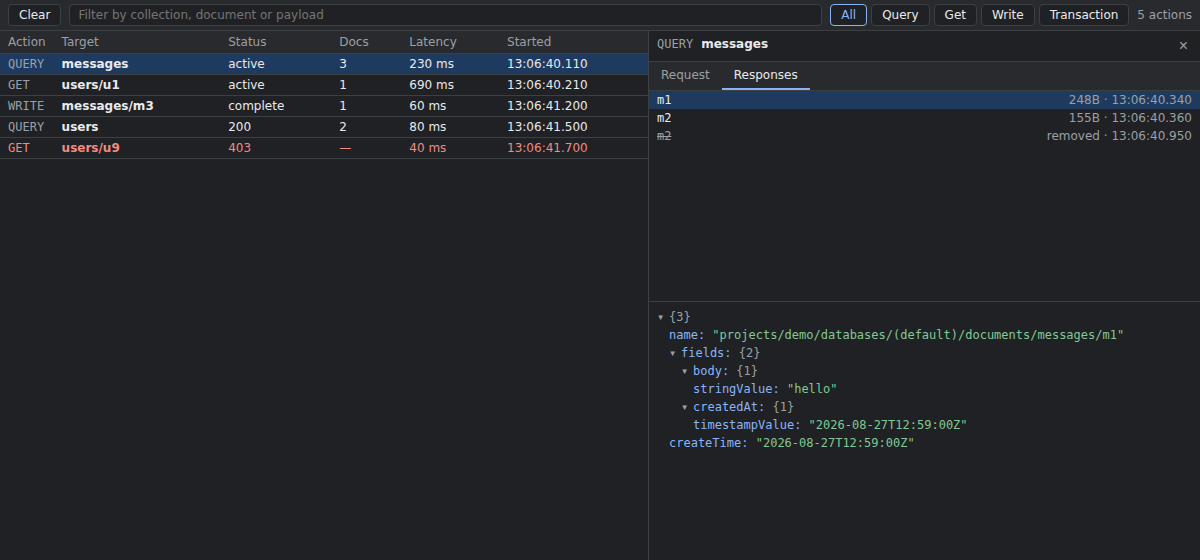
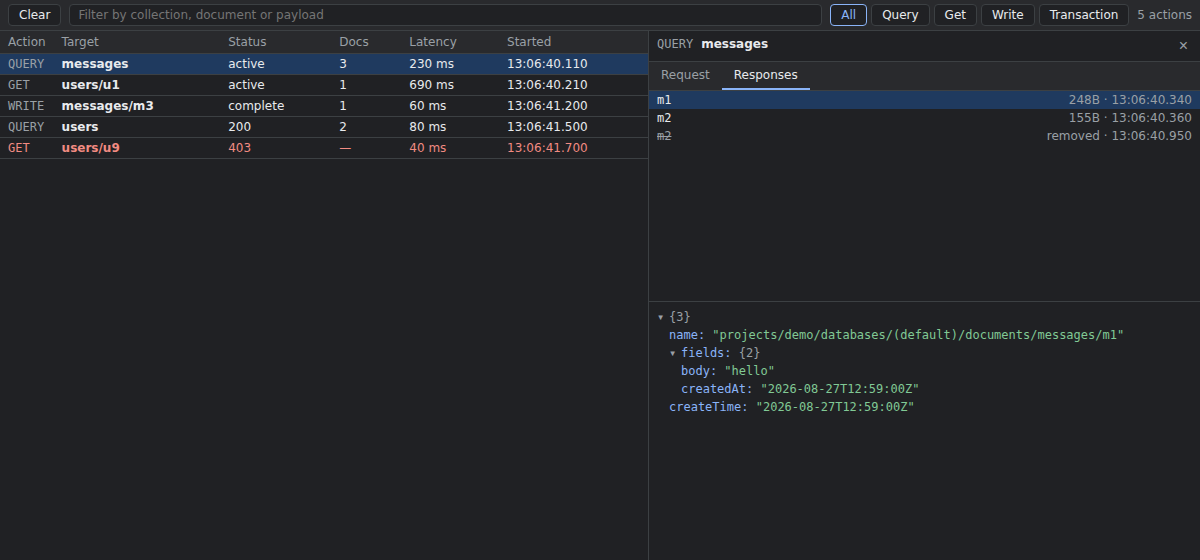
feat: show documents as the app sees them (#9)

Changed region(s): [[0.555, 0.6375, 0.8017, 0.8196]]

diff --git a/tests/unit/proto.test.ts b/tests/unit/proto.test.ts
@@ -1,0 +1,102 @@
+import { describe, expect, it } from "vitest";
+
+import {
+  decodeDocument,
+  decodeValue,
+  relativePath,
+} from "../../src/shared/proto";
+
+describe("decodeValue", () => {
+  it("unwraps the scalars", () => {
+    expect(decodeValue({ stringValue: "hi" })).toBe("hi");
+    expect(decodeValue({ booleanValue: false })).toBe(false);
+    expect(decodeValue({ doubleValue: 1.5 })).toBe(1.5);
+    expect(decodeValue({ nullValue: null })).toBeNull();
+    expect(decodeValue({ timestampValue: "2026-08-27T00:00:00Z" })).toBe(
+      "2026-08-27T00:00:00Z",
+    );
+  });
+
+  it("reads an integer back as a number while that is lossless", () => {
+    expect(decodeValue({ integerValue: "18" })).toBe(18);
+  });
+
+  it("leaves an integer too large for a double as it arrived", () => {
+    // Firestore's int64 goes further than Number can represent exactly.
+    expect(decodeValue({ integerValue: "9007199254740993" })).toBe(
+      "9007199254740993",
+    );
+  });
+
+  it("shortens a reference the way the rest of the panel does", () => {
+    expect(
+      decodeValue({
+        referenceValue: "projects/demo/databases/(default)/documents/users/u1",
+      }),
+    ).toBe("users/u1");
+  });
+
+  it("recurses through arrays and maps", () => {
+    expect(
+      decodeValue({
+        arrayValue: {
+          values: [{ stringValue: "a" }, { integerValue: "2" }],
+        },
+      }),
+    ).toEqual(["a", 2]);
+
+    expect(
+      decodeValue({
+        mapValue: {
+          fields: {
+            nested: { arrayValue: { values: [{ booleanValue: true }] } },
+          },
+        },
+      }),
+    ).toEqual({ nested: [true] });
+  });
+
+  it("hands back a shape it does not recognise", () => {
+    expect(decodeValue({ somethingNew: 1 })).toEqual({ somethingNew: 1 });
+    expect(decodeValue("already plain")).toBe("already plain");
+    expect(decodeValue(undefined)).toBeUndefined();
+  });
+
+  it("treats an empty map as an empty object rather than as nothing", () => {
+    expect(decodeValue({ mapValue: {} })).toEqual({});
+    expect(decodeValue({ arrayValue: {} })).toEqual([]);
+  });
+});
+
+describe("decodeDocument", () => {
+  it("unwraps the fields and leaves the metadata alone", () => {
+    expect(
+      decodeDocument({
+        name: "projects/demo/databases/(default)/documents/messages/m1",
+        fields: { body: { stringValue: "hi" }, read: { booleanValue: false } },
+        createTime: "2026-08-27T12:59:00Z",
+      }),
+    ).toEqual({
+      name: "projects/demo/databases/(default)/documents/messages/m1",
+      fields: { body: "hi", read: false },
+      createTime: "2026-08-27T12:59:00Z",
+    });
+  });
+
+  it("leaves something that is not a document alone", () => {
+    expect(decodeDocument({ name: "x" })).toEqual({ name: "x" });
+    expect(decodeDocument("nope")).toBe("nope");
+  });
+});
+
+describe("relativePath", () => {
+  it("strips the database prefix", () => {
+    expect(
+      relativePath("projects/demo/databases/(default)/documents/users/u1"),
+    ).toBe("users/u1");
+  });
+
+  it("leaves a path that has none", () => {
+    expect(relativePath("users/u1")).toBe("users/u1");
+  });
+});

diff --git a/src/shared/proto.ts b/src/shared/proto.ts
@@ -1,11 +1,13 @@
 /**
  * Helpers for the protobuf-JSON shapes Firestore puts on the wire: resource
- * names and the part of `StructuredQuery` that says what is being read.
+ * names, `Value` wrappers, and the part of `StructuredQuery` that says what is
+ * being read.
  *
  * Everything here is defensive. The payloads come from the network, the SDK
  * version is unknown, and a panel that renders something slightly generic is
  * much better than one that throws.
  */
+import { asArray, asRecord } from "./json";
 
 /** The `projects/p/databases/d/documents/` prefix on every resource name. */
 const RESOURCE_PREFIX = /^projects\/[^/]+\/databases\/[^/]+\/documents\/?/;
@@ -43,4 +45,72 @@ export function queryCollection(
 ): string {
   const from = query?.from?.[0];
   return collectionPath(parent, from?.collectionId, from?.allDescendants);
+}
+
+/**
+ * Turns a protobuf-JSON `Value` into the value the app sees, so a document
+ * reads as `{"body": "hi"}` rather than as `{"body": {"stringValue": "hi"}}`.
+ *
+ * Anything that is not a wrapper we know comes back untouched — a shape we
+ * cannot read is better shown as it arrived than swallowed.
+ */
+export function decodeValue(value: unknown): unknown {
+  const wrapper = asRecord(value);
+  if (!wrapper) return value;
+
+  if ("nullValue" in wrapper) return null;
+  if ("booleanValue" in wrapper) return wrapper.booleanValue;
+  if ("stringValue" in wrapper) return wrapper.stringValue;
+  if ("doubleValue" in wrapper) return wrapper.doubleValue;
+  if ("timestampValue" in wrapper) return wrapper.timestampValue;
+  if ("bytesValue" in wrapper) return wrapper.bytesValue;
+
+  if ("integerValue" in wrapper) {
+    // int64 travels as a string. Reading it back as a number is what the app
+    // sees, but only while that is lossless.
+    const parsed = Number(wrapper.integerValue);
+    return Number.isSafeInteger(parsed) ? parsed : wrapper.integerValue;
+  }
+
+  if ("referenceValue" in wrapper) {
+    return relativePath(String(wrapper.referenceValue));
+  }
+
+  if ("geoPointValue" in wrapper) return wrapper.geoPointValue;
+
+  if ("arrayValue" in wrapper) {
+    const array = asRecord(wrapper.arrayValue);
+    return (asArray(array?.values) ?? []).map(decodeValue);
+  }
+
+  if ("mapValue" in wrapper) {
+    const map = asRecord(wrapper.mapValue);
+    return decodeFields(map?.fields) ?? {};
+  }
+
+  return value;
+}
+
+/** A document's `fields` map, with every value unwrapped. */
+export function decodeFields(
+  fields: unknown,
+): Record<string, unknown> | undefined {
+  const record = asRecord(fields);
+  if (!record) return undefined;
+
+  return Object.fromEntries(
+    Object.entries(record).map(([key, value]) => [key, decodeValue(value)]),
+  );
+}
+
+/**
+ * A document with its fields unwrapped and its metadata left alone: the name
+ * and the timestamps are worth reading exactly as they arrived.
+ */
+export function decodeDocument(document: unknown): unknown {
+  const record = asRecord(document);
+  const fields = decodeFields(record?.fields);
+  if (!record || !fields) return document;
+
+  return { ...record, fields };
 }

diff --git a/src/shared/payloads.ts b/src/shared/payloads.ts
@@ -9,7 +9,7 @@
  */
 import type { Action } from "./actions";
 import { asArray, asMessages, asRecord } from "./json";
-import { relativePath } from "./proto";
+import { decodeDocument, relativePath } from "./proto";
 import type { Frame } from "./types";
 
 /**
@@ -38,7 +38,9 @@ export function requestPayload(action: Action): unknown {
   const aggregation = asRecord(record.structuredAggregationQuery);
   if (aggregation !== undefined) return aggregation;
 
-  if (record.writes !== undefined) return record.writes;
+  // A write carries a document, so it reads the same way one does.
+  const writes = asArray(record.writes);
+  if (writes) return writes.map(decodeWrite);
   if (record.documents !== undefined) return record.documents;
 
   return record;
@@ -156,5 +158,12 @@ function documentOf(
 ): { path: string; body: unknown } | undefined {
   const record = asRecord(value);
   if (typeof record?.name !== "string") return undefined;
-  return { path: relativePath(record.name), body: record };
+  return { path: relativePath(record.name), body: decodeDocument(record) };
+}
+
+/** The document inside a write, unwrapped; everything else left alone. */
+function decodeWrite(write: unknown): unknown {
+  const record = asRecord(write);
+  if (!record?.update) return write;
+  return { ...record, update: decodeDocument(record.update) };
 }

diff --git a/tests/unit/payloads.test.ts b/tests/unit/payloads.test.ts
@@ -47,9 +47,14 @@ describe("requestPayload", () => {
     ]);
   });
 
-  it("gives the writes for a write", () => {
+  it("gives the writes for a write, with the document unwrapped", () => {
     expect(requestPayload(actionFor(actions, "messages/m3"))).toMatchObject([
-      { update: { name: expect.stringContaining("messages/m3") } },
+      {
+        update: {
+          name: expect.stringContaining("messages/m3"),
+          fields: { body: "sent" },
+        },
+      },
     ]);
   });
 
@@ -88,9 +93,16 @@ describe("responseItems", () => {
 
     expect(first?.body).toMatchObject({
       name: expect.stringContaining("messages/m1"),
-      fields: { body: { stringValue: "hello" } },
     });
     expect(first?.body).not.toHaveProperty("targetIds");
+  });
+
+  it("unwraps the fields, so a document reads the way the app sees it", () => {
+    const [first] = responseItems(actionFor(actions, "messages"));
+
+    expect(first?.body).toMatchObject({
+      fields: { body: "hello", createdAt: "2026-08-27T12:59:00Z" },
+    });
   });
 
   it("has nothing to show for a document that was removed", () => {

diff --git a/tests/screenshot.ts b/tests/screenshot.ts
@@ -3,12 +3,16 @@
  * tests render. Not a test — run it with `pnpm screenshot`.
  */
 import { mkdir } from "node:fs/promises";
-
 import { launch } from "./e2e/support/browser";
+import build from "./e2e/support/build";
 import { openPanel } from "./e2e/support/panel";
 import { session } from "./support/session";
 
 const OUTPUT = new URL("../docs/", import.meta.url).pathname;
+
+// The panel is served out of `dist/`, so without this the images would show
+// whatever was built last rather than what is in the tree.
+await build();
 
 const browser = await launch();
 await mkdir(OUTPUT, { recursive: true });

diff --git a/tests/e2e/panel.test.ts b/tests/e2e/panel.test.ts
@@ -69,6 +69,14 @@ describe("the panel", () => {
       ]);
     });
 
+    it("shows the fields as values, not as `Value` wrappers", async () => {
+      await panel.page.locator("aside ol li button").first().click();
+      const payload = await panel.page.locator("aside").innerText();
+
+      expect(payload).toContain('body: "hello"');
+      expect(payload).not.toContain("stringValue");
+    });
+
     it("shows a document without its event wrapper", async () => {
       await panel.page.locator("aside ol li button").first().click();
       const payload = await panel.page.locator("aside").innerText();

diff --git a/CLAUDE.md b/CLAUDE.md
@@ -89,8 +89,10 @@ page realm            isolated realm        extension              devtools
 - **`firestore.ts`** maps a request URL to an RPC.
 - **`webchannel.ts`** implements the Closure WebChannel framing: a form-encoded
   `req0___data__=…` body outbound, length-prefixed JSON chunks inbound.
-- **`proto.ts`** reads the protobuf-JSON shapes — resource names, and the part
-  of `StructuredQuery` that says which collection is being read.
+- **`proto.ts`** reads the protobuf-JSON shapes — resource names, `Value`
+  wrappers, and the part of `StructuredQuery` that says which collection is
+  being read. A document is shown with its fields unwrapped and its metadata
+  left alone; an `integerValue` only becomes a number while that is lossless.
 - **`payloads.ts`** digs the query out of a request and the documents out of
   the responses, which is what the detail pane shows. Neither view should ever
   render the envelope a payload arrived in.

diff --git a/README.md b/README.md
@@ -85,8 +85,6 @@ extension decodes, and the conventions this repository holds to.
 ## Roadmap
 
 - Persist across page navigation, with a "preserve log" toggle.
-- Unwrap the `Value` wrappers in document bodies, so a document reads the way
-  the app sees it rather than as `{"body": {"stringValue": "hi"}}`.
 - A raw transport view, for debugging the channel itself rather than the
   actions riding on it — the handshakes and keepalives the action view drops.
 - Timeline/waterfall column.
